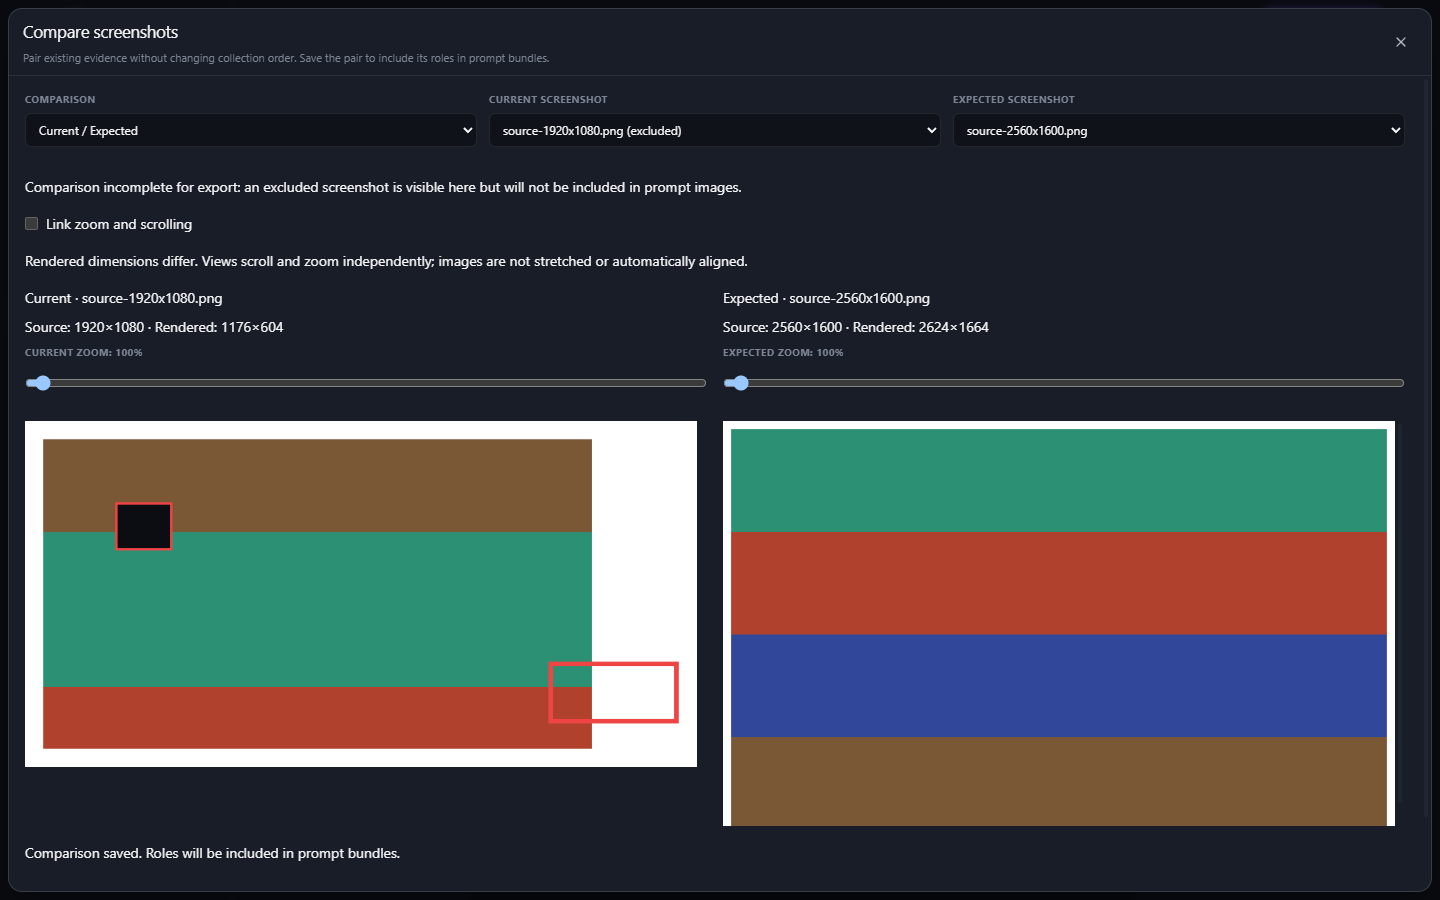
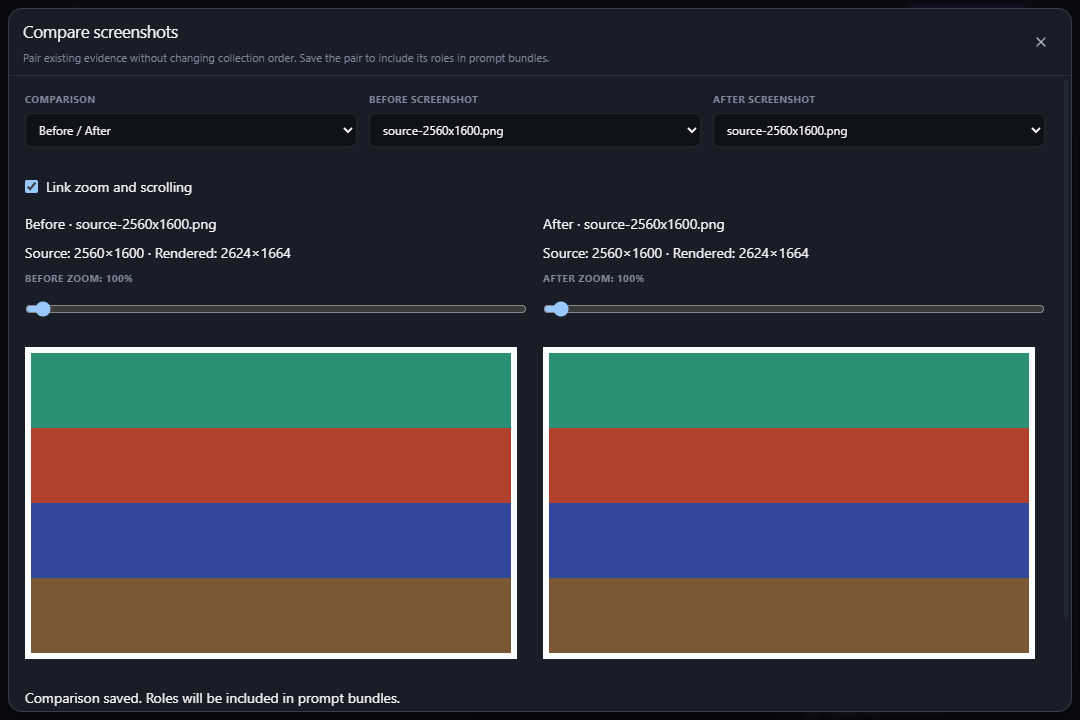
feat(release-notes): verify screenshot provenance and scaled layout

Changed region(s): [[0.0, 0.0, 1.0, 1.0], [0.6417, 0.0917, 0.7639, 0.1833], [0.9472, 0.0, 1.0, 0.1833]]

diff --git a/electron/smoke-workflow.ts b/electron/smoke-workflow.ts
@@ -606,11 +606,7 @@ async function exerciseWhatsNew(
     if (focusedFeature !== actionableFeatures[0].id)
       throw new Error('Native Tab did not reach the first release action from its dedicated tab.');
   }
-  for (const viewport of [
-    { width: 1280, height: 800 },
-    { width: 1080, height: 680 },
-  ]) {
-    await driver.resize(viewport);
+  const assertReleaseCards = async () => {
     await driver.evaluate(`(async () => {
       const section = document.querySelector('.whats-new-settings');
       const images = [...section.querySelectorAll('img')];
@@ -624,6 +620,13 @@ async function exerciseWhatsNew(
         throw new Error('Release cards overflow the settings viewport.');
       grid.scrollTop = 0;
     })()`);
+  };
+  for (const viewport of [
+    { width: 1280, height: 800 },
+    { width: 1080, height: 680 },
+  ]) {
+    await driver.resize(viewport);
+    await assertReleaseCards();
     if (artifactDirectory)
       artifacts.push(
         await driver.capture(
@@ -633,6 +636,16 @@ async function exerciseWhatsNew(
         ),
       );
   }
+  // Interface scale is implemented as the root font size; exercise the same presentation at 110%.
+  const previousFontSize = await driver.evaluate<string>(`(() => {
+    const previous = document.documentElement.style.fontSize;
+    document.documentElement.style.fontSize = '110%';
+    return previous;
+  })()`);
+  await assertReleaseCards();
+  if (artifactDirectory)
+    artifacts.push(await driver.capture(artifactDirectory, '1080x680-whats-new-page-110.png', 'none'));
+  await driver.evaluate(`document.documentElement.style.fontSize = ${JSON.stringify(previousFontSize)}`);
   await driver.resize({ width: 1280, height: 800 });
   await driver.click({ text: 'Replay what’s new', exact: true });
   await driver.waitFor({ selector: '[data-testid="whats-new-dialog"]' });
@@ -3187,7 +3200,9 @@ export async function runSmokeWorkflow(
   const projectPath = await createProjectThroughUi(driver, 'Native Verification', true);
   await exerciseWhatsNew(driver, host, options.version, artifactDirectory, artifacts);
   if (findWhatsNewRelease(options.version))
-    assertions.push('eligible nightly What’s new, replay, Later and guided handoff');
+    assertions.push(
+      'installed-build highlights, illustrated settings page, native Tab, replay, Later and related actions',
+    );
   // Use a stable user-facing name while retaining random, isolated filesystem paths.
   // This keeps approved visual captures independent of the temporary workspace name.
   await driver.click({ selector: '[data-testid="collection-picker"]' });

diff --git a/electron/smoke-workflow.capture.test.ts b/electron/smoke-workflow.capture.test.ts
@@ -140,6 +140,7 @@ const canvasFreeByModule = new Map<string, Set<string>>([
       '1280x800-onboarding-copy.png',
       '1280x800-whats-new.png',
       '`${viewport.width}x${viewport.height}-whats-new-page.png`',
+      '1080x680-whats-new-page-110.png',
       '1440x900-settings.png',
       '`${viewport.width}x${viewport.height}-settings-features.png`',
       '`${viewport.width}x${viewport.height}-settings-workspace.png`',

diff --git a/docs/whats-new-artwork.md b/docs/whats-new-artwork.md
@@ -11,3 +11,23 @@ The three 0.4.0 illustrations were generated on 2026-09-29 with the built-in ima
 The prompt direction was a minimal landscape still life in matte paper and ceramic, with an off-white background, violet accent, sage hills and a small coral sun. Each prompt required legibility at the card's 200 × 124 px display size, soft studio light, and no words, logos, watermarks or fabricated app UI.
 
 These are decorative illustrations, not screenshots or proof of receiving-app behavior. Feature descriptions and actions remain accessible HTML. `WhatsNew.tsx` gives decorative images an empty alternative and keeps the text when an image fails to load. The release walkthrough captures the actual dialog and exercises its actions separately from the artwork.
+
+## Next nightly: capture, compare and hand off
+
+The three `whats-new-050-*` PNGs are unedited screenshots of Imnota on Windows 11 x64, captured on 2026-11-14 with the existing isolated native walkthrough. Every project, screenshot, annotation, bundle identifier and instruction is synthetic. The selected images were inspected for personal data and contain no personal workspace paths. They are bundled locally; opening release notes makes no image-generation or screenshot-upload calls.
+
+| Asset                             | Pixels     | Bytes   | Source capture and revision                                                                                                                                                                               |
+| --------------------------------- | ---------- | ------- | --------------------------------------------------------------------------------------------------------------------------------------------------------------------------------------------------------- |
+| `whats-new-050-quick-capture.png` | 900 × 680  | 20,117  | `quick-capture-annotation.png`, packaged Imnota 0.4.0 at `27de73bbba1bf3f71f99b0a3982ee44266a5b06a` (merged with the identical tree in #321).                                                             |
+| `whats-new-050-comparison.png`    | 1080 × 720 | 28,549  | `comparison-ready.png`, source-build Imnota 0.4.0 at `94d1eccba1a32354292eae6f6c31bc1d19e8a446`. The walkthrough saves an included pair through the UI, reads its persisted identities, then captures it. |
+| `whats-new-050-agent-handoff.png` | 1280 × 800 | 164,313 | `agent-handoff-exact.png`, the same packaged revision as the quick-capture image. The dialog identifies a synthetic saved export, not a live view of a collection.                                        |
+
+SHA-256:
+
+```text
+quick-capture  0e7e922272057b898e0368b9db17c87ad341bbd13cdfd7e35c9082ce27557155
+comparison     b8635a853119ce4e796446cc822ac7d38508ed173dc191d8a994398bf046de69
+agent-handoff  bde003c6e4a4725ff93ece3770abf071abbe3a0f60d5d2c47d5a312d2fc556a8
+```
+
+The screenshot version records their source, not a claim that the next nightly has been published. The new nightly catalog entry is gated after 0.4.0 and does not replace Stable or older-nightly guidance. Verify the final nightly's actual version, installed-channel label, three loaded images, navigation, replay and related actions against that published candidate. A controlled local preview is separate evidence from publication. Screenshots do not establish acceptance by an external coding agent or clipboard receiver.
